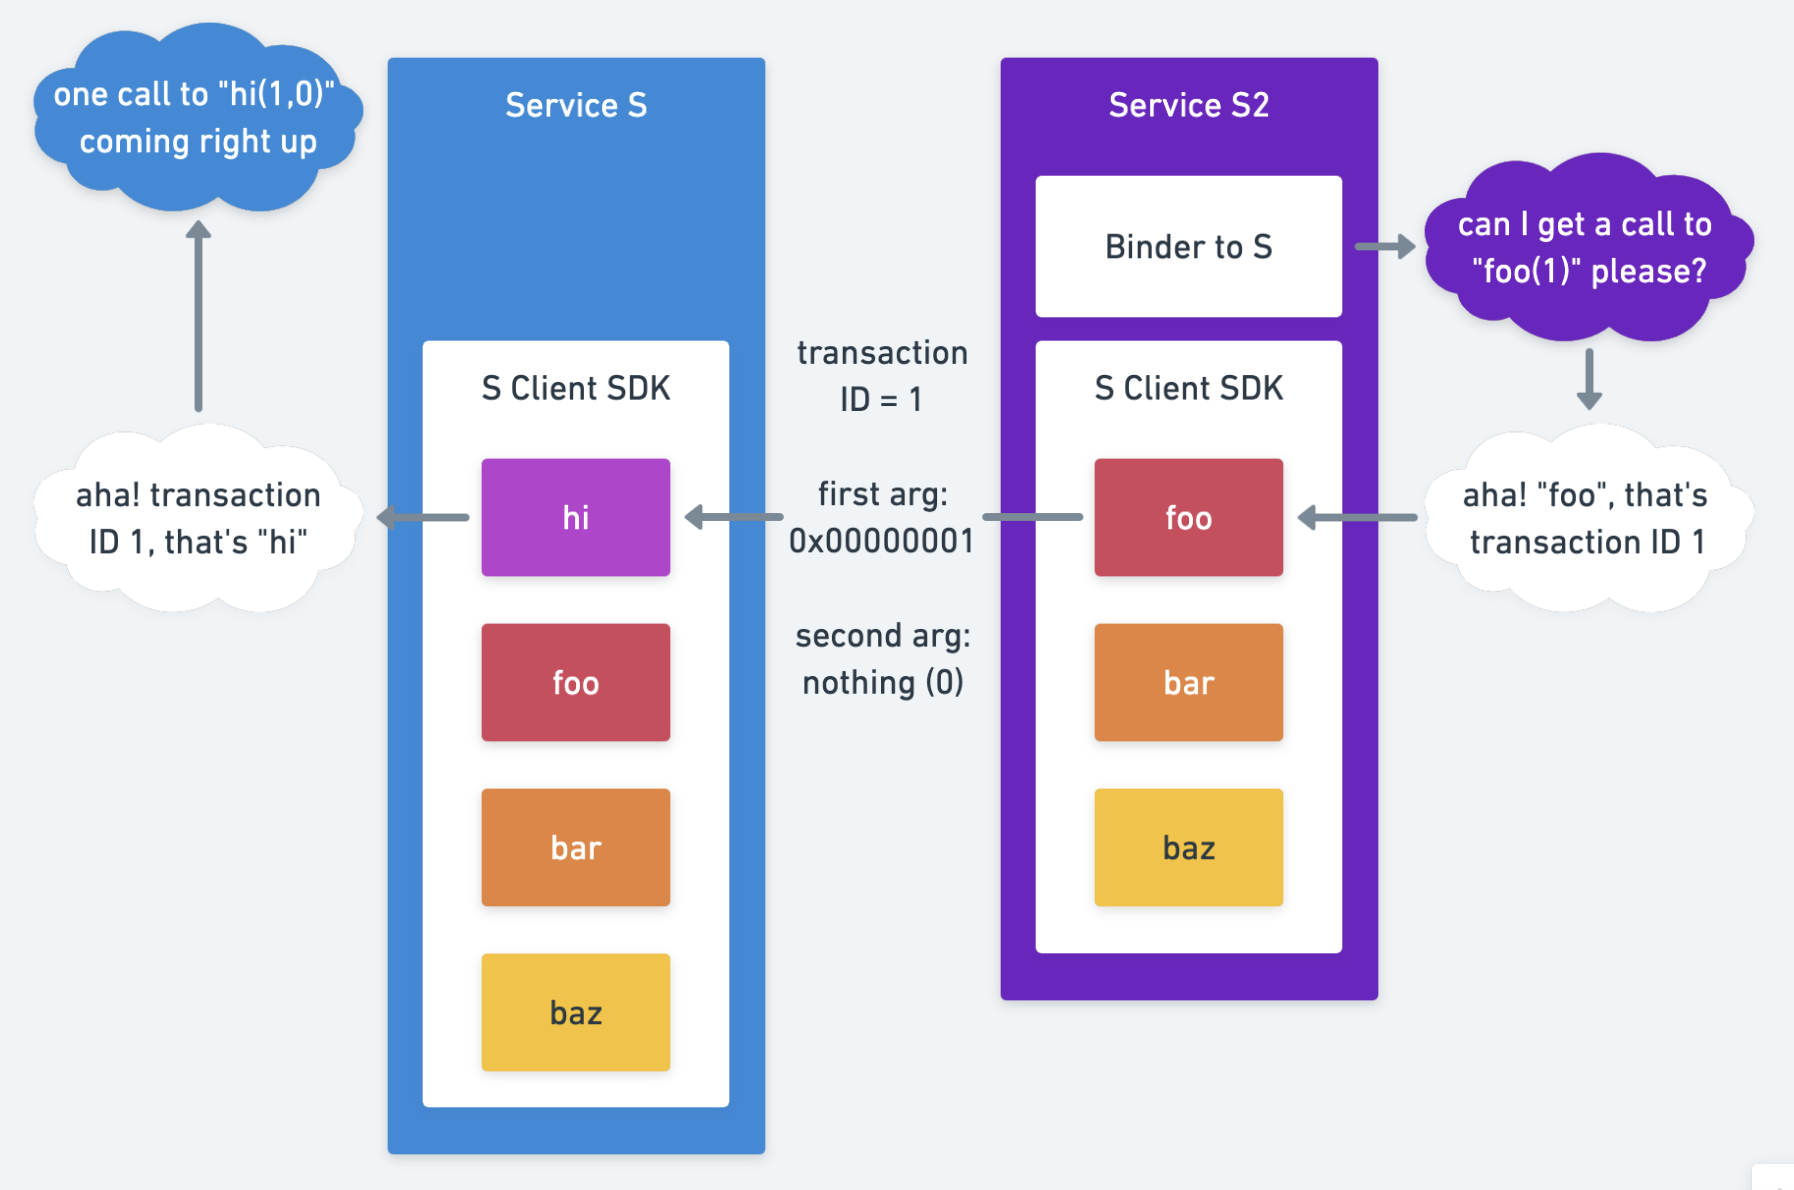
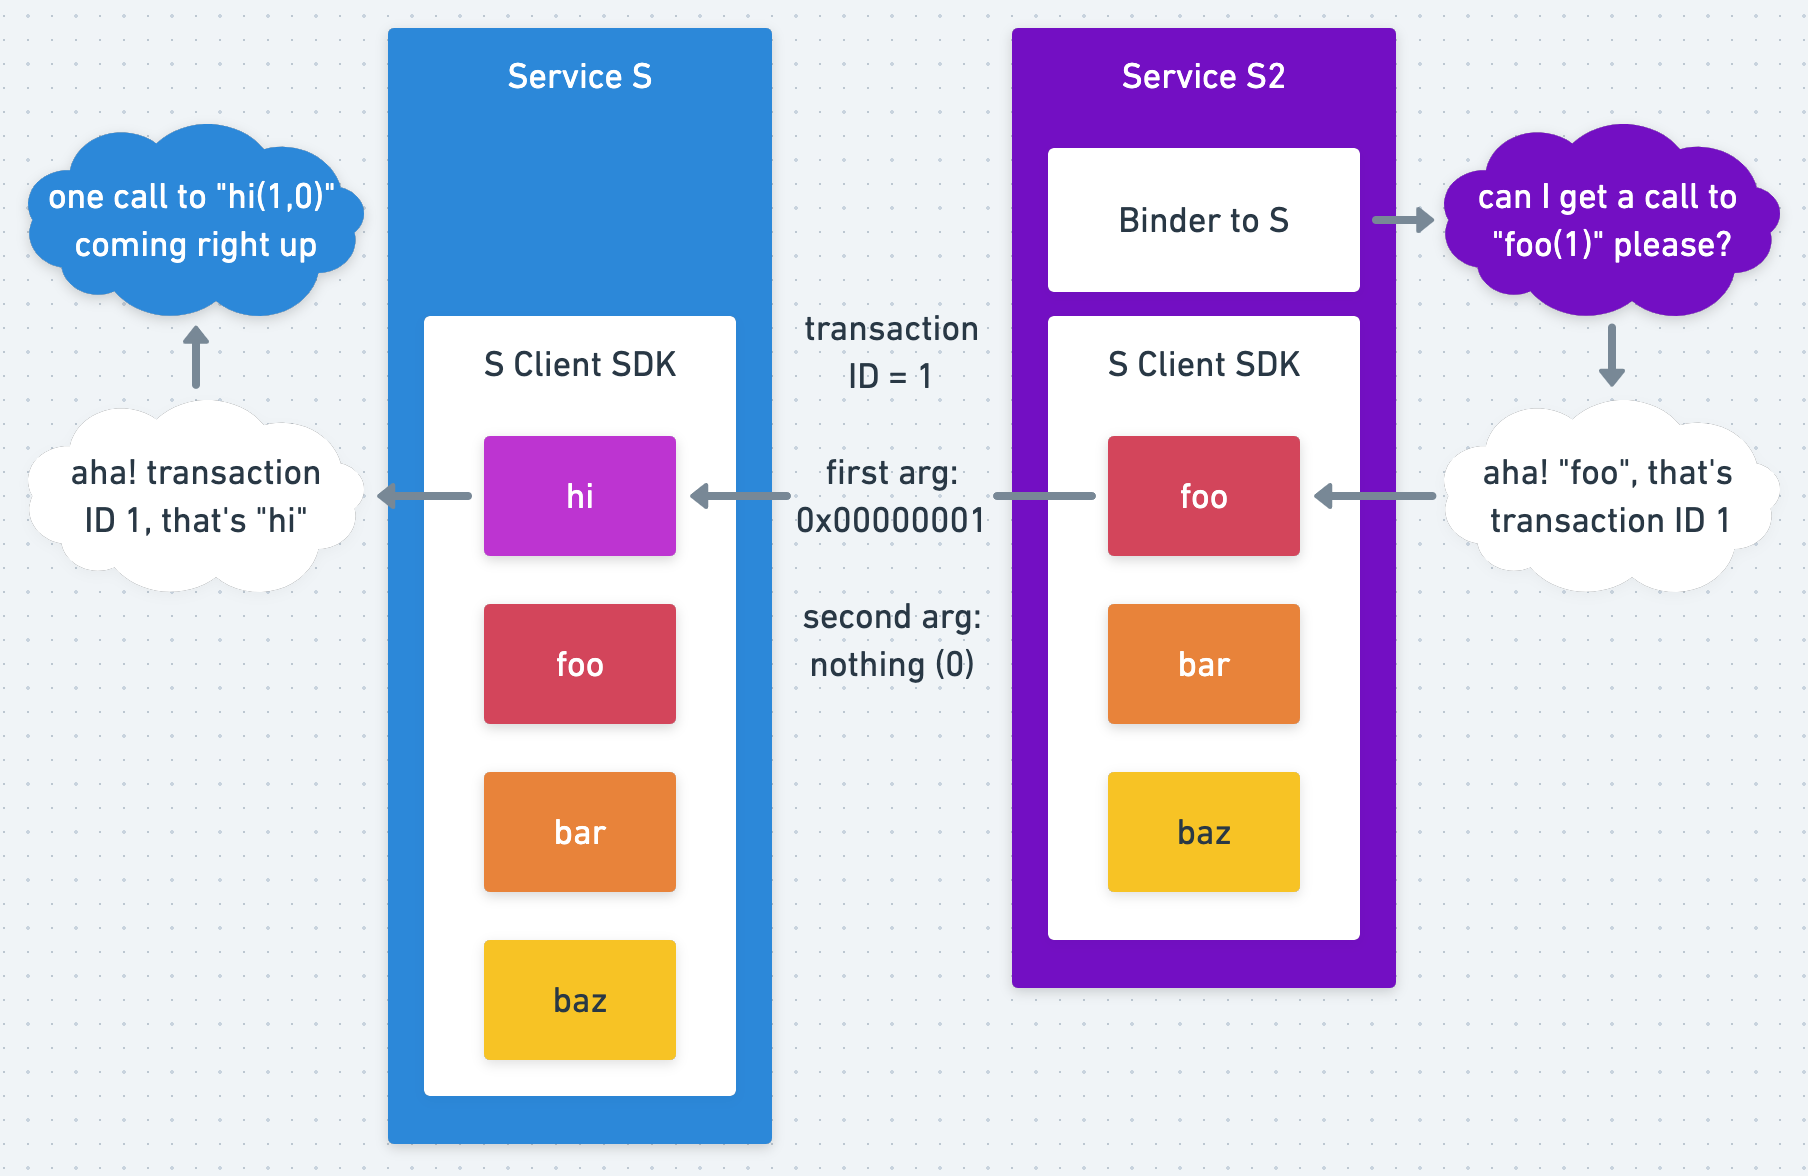
Add happy case image for aidl post

diff --git a/blog/aidl-and-backward-compatibility.md b/blog/aidl-and-backward-compatibility.md
@@ -101,13 +101,15 @@ public interface IClientInterface extends IInterface {
 }
 ```
 
-I promise it makes more sense when you look into the real compiled code and trace it by hand!
-
 Since the [Android SDK docs on AIDL](https://developer.android.com/guide/components/aidl) already describe how to use this generated code, I'll draw attention to these two points:
-* In the diagram below, I'm attempting to illustrate how a client SDK plays two roles: one to expose an interface for clients to build against, and one for the service to build against to supply implementation. I hope it's clear enough!
+* A client SDK plays two roles: expose an interface for clients (to compile with) and the host to agree upon (build against to supply implementation). The backward incompatibilities I'm describing arise from differing versions on the host (S) and the "client" (itself a service, S2).
 * Each interface method gets a transaction ID depending on its order in the file. This is why there are issues if you change the original order of the methods.
 
-Below is an example of how reordering methods causes issues.
+Here's an example of what happens in a normal case:
+
+![Happy case AIDL](../../img/aidl-happy.png)
+
+And here's an example of what happens when a client gets a different version with methods reordered in the .aidl file:
 
 ![Reordering AIDL methods](../../img/aidl-reordering.png)
 
